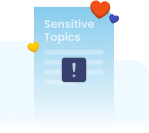
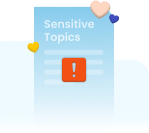
chore: update page creation welcom modal

Changed region(s): [[0.4027, 0.4211, 0.5906, 0.6316], [0.5906, 0.0, 0.7517, 0.1504]]

diff --git a/Photo Editor/Photo Editor/WelcomeDialogViewController.swift b/Photo Editor/Photo Editor/WelcomeDialogViewController.swift
@@ -67,14 +67,14 @@ public final class WelcomeDialogViewController: UIViewController, UIScrollViewDe
         slide1.imageView.image = UIImage(named: "slide_1", in: imgBundle, compatibleWith: nil)
         slide1.label.numberOfLines = 5
         slide1.label.textAlignment = .center
-        slide1.label.attributedText = attributedText(withString: "Blue Fever is a 100% anonymous +\njudgment-free space for you to\nexpress your thoughts, feelings and  experiences.\n", boldString: "100% anonymous +\njudgment-free", font: UIFont.init(name: "DMSans-Regular", size: 15)!, withColor: false)
+        slide1.label.attributedText = attributedText(withString: "Blue Fever is a 100% anonymous +\njudgment-free space for you to\nexpress your thoughts, feelings and  experiences.\n", boldString: "100% anonymous +\njudgment-free", font: UIFont.init(name: "DMSans-Regular", size: 15)!, withColor: false, withUnderline: false)
         
         
         let slide2:WelcomeSlide = bundle.loadNibNamed("WelcomeSlideView", owner: nil, options: nil)?.first as! WelcomeSlide
         slide2.imageView.image = UIImage(named: "slide_2", in: imgBundle, compatibleWith: nil)
         slide2.label.numberOfLines = 5
         slide2.label.textAlignment = .center
-        slide2.label.attributedText = attributedText(withString: "In order to maintain a supportive space for all, if sensitive topics are mentioned, we may add a simple TW on your page or default it to private. Learn more.\n", boldString: "Learn more.", font: UIFont.init(name: "DMSans-Regular", size: 15)!, withColor: true)
+        slide2.label.attributedText = attributedText(withString: "To ensure a safe space for all, pages noting sensitive topics or contact info may have a trigger warning or may default to private view. Learn more in our Community Guidelines.\n", boldString: "Community Guidelines", font: UIFont.init(name: "DMSans-Regular", size: 15)!, withColor: true, withUnderline: true)
         slide2.label.isUserInteractionEnabled = true
         
         let tapgesture = UITapGestureRecognizer(target: self, action: #selector(tappedOnLabel(_ :)))
@@ -88,7 +88,7 @@ public final class WelcomeDialogViewController: UIViewController, UIScrollViewDe
     
     //MARK:- tappedOnLabel
     @objc func tappedOnLabel(_ gesture: UITapGestureRecognizer) {
-        if gesture.didTapAttributedTextInLabel(label: self.slides[1].label, targetText: "Learn more.") {
+        if gesture.didTapAttributedTextInLabel(label: self.slides[1].label, targetText: "Community Guidelines") {
             let sensitiveContentViewController = SensitiveContentViewController(nibName: "SensitiveContentViewController", bundle: Bundle(for: SensitiveContentViewController.self))
             
             sensitiveContentViewController.photoEditorDelegate = photoEditorDelegate
@@ -103,12 +103,12 @@ public final class WelcomeDialogViewController: UIViewController, UIScrollViewDe
         }
     }
     
-    func attributedText(withString string: String, boldString: String, font: UIFont, withColor: Bool) -> NSAttributedString {
+    func attributedText(withString string: String, boldString: String, font: UIFont, withColor: Bool, withUnderline: Bool) -> NSAttributedString {
         let attributedString = NSMutableAttributedString(string: string,
                                                      attributes: [NSAttributedString.Key.font: font])
         let boldFontAttribute: [NSAttributedString.Key: Any] = [NSAttributedString.Key.font: UIFont.init(name: "DMSans-Bold", size: 15)!]
         
-        let colorAttribute: [NSAttributedString.Key: Any] = [NSAttributedString.Key.foregroundColor: UIColor.init(hexString: "#4150BE")]
+        let colorAttribute: [NSAttributedString.Key: Any] = [NSAttributedString.Key.foregroundColor: UIColor.init(hexString: "#1E2347")]
         
         let range = (string as NSString).range(of: boldString)
         attributedString.addAttributes(boldFontAttribute, range: range)
@@ -116,6 +116,11 @@ public final class WelcomeDialogViewController: UIViewController, UIScrollViewDe
         if (withColor) {
             attributedString.addAttributes(colorAttribute, range: range)
         }
+        
+        if(withUnderline) {
+            attributedString.addAttribute(NSAttributedString.Key.underlineStyle, value: NSUnderlineStyle.single.rawValue, range: range)
+        }
+        
         
         return attributedString
     }
